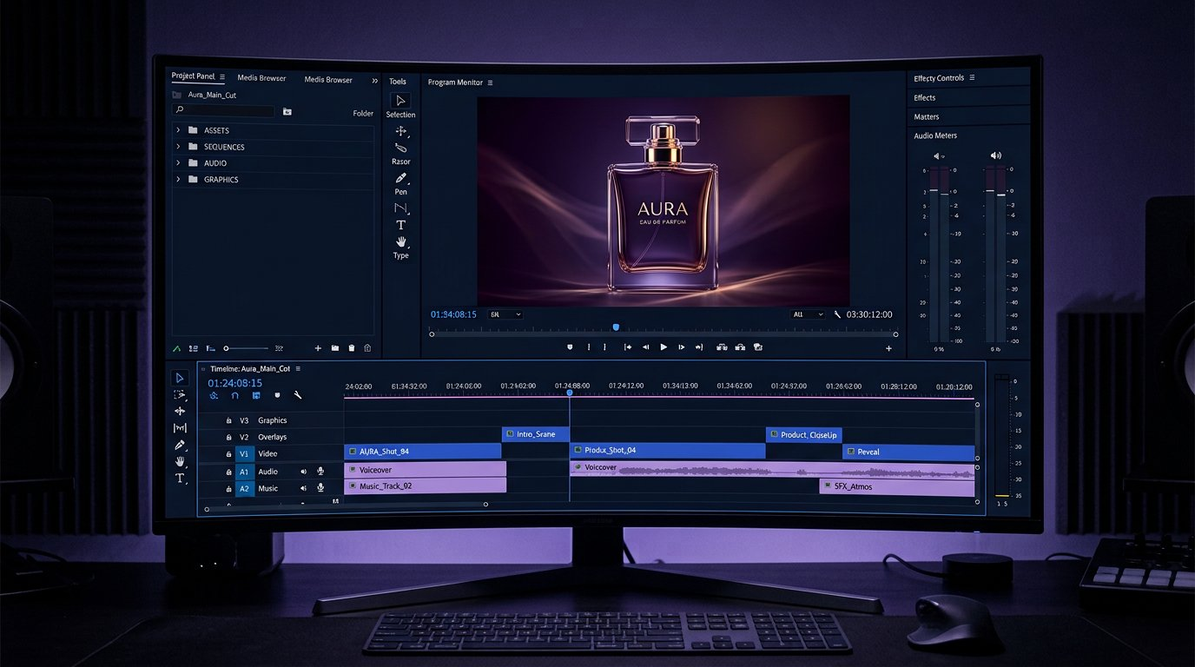
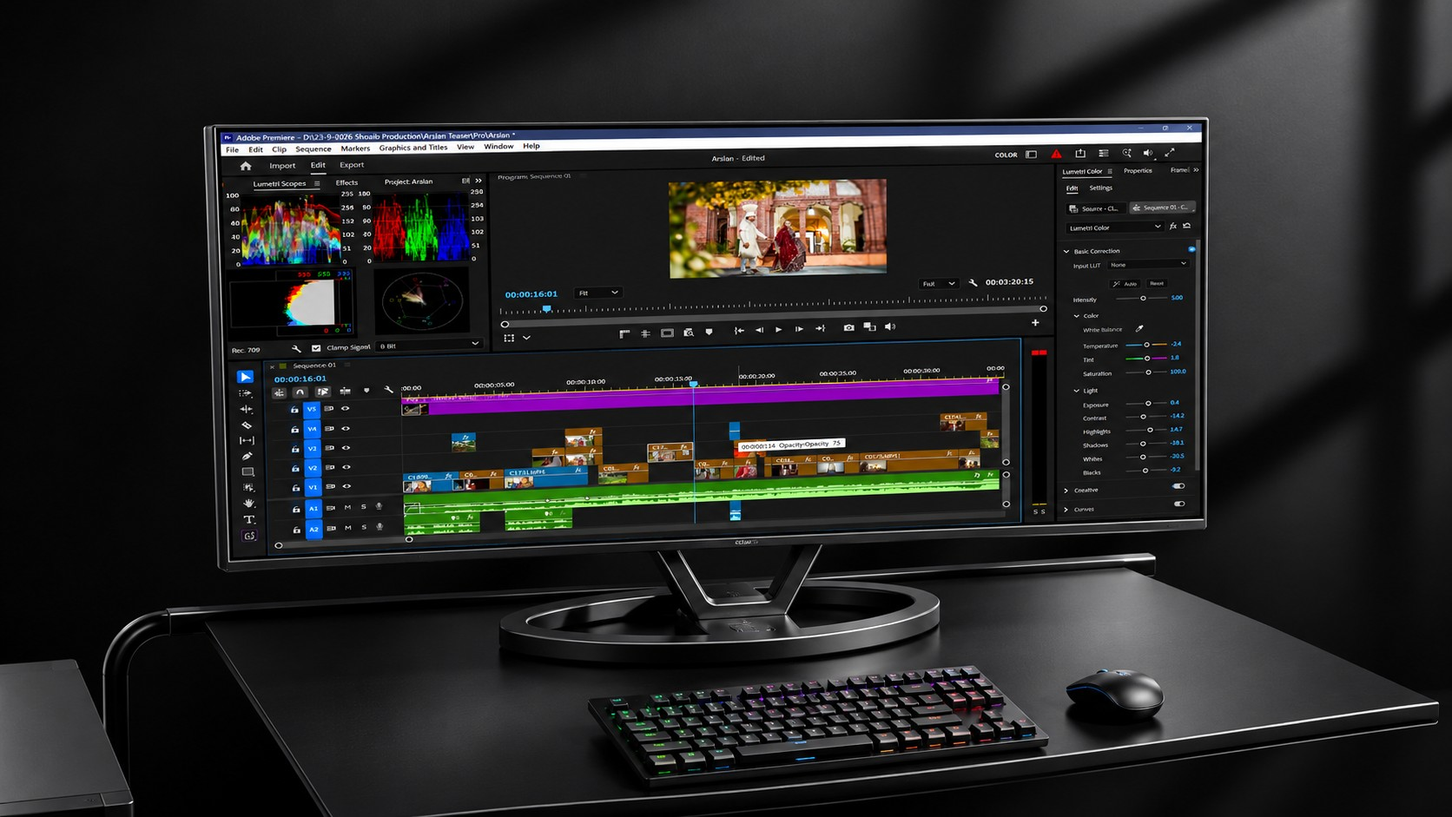
Use new Premiere Pro editing suite image on the homepage video card and Premiere page

diff --git a/index.html b/index.html
@@ -16,7 +16,7 @@
 <dialog id="profile-dialog" class="profile-dialog" aria-labelledby="profile-title"><div class="profile-inner"><button class="profile-close" type="button" aria-label="Close profile">×</button><img class="profile-photo" src="assets/profile.jpg?v=3" alt="Muhammad Hamza"><div class="profile-content"><div class="eyebrow"><span class="dot"></span> Meet the designer</div><h2 id="profile-title">Muhammad<br>Hamza.</h2><p class="profile-intro">Graphic designer &amp; video editor based in Lahore, Pakistan.</p><div class="profile-panel" id="profile-details-panel"><div class="profile-details"><div><small>EDUCATION</small><strong>ICS completed</strong><span>Continuing studies in software engineering</span></div><div><small>EXPERIENCE</small><strong>5+ years designing</strong><span>Worked with 3+ companies · 120+ projects delivered</span></div><div><small>EXPERTISE</small><strong>Graphic design &amp; video editing</strong><span>Brand identity, social media, typography &amp; visual storytelling</span></div><div><small>PHONE</small><strong><a href="tel:+923038718500">+92 303 8718500 ↗</a></strong><span>Lahore, Pakistan</span></div></div></div><div class="profile-panel" id="profile-story-panel" hidden><p class="story-lead">Turning ideas into impact.</p><p class="profile-intro">I'm Muhammad Hamza, a passionate graphic designer who loves turning ideas into stunning visuals. With a keen eye for detail and a love for creativity, I design brands, build identities, and create work that inspires — visuals that hold up long after the trend has moved on.</p><div class="profile-details"><div><small>CREATIVE MIND</small><span>Fresh ideas, bold concepts.</span></div><div><small>DETAIL FOCUS</small><span>Pixel-perfect by instinct.</span></div><div><small>CLIENT FIRST</small><span>Your vision, my priority.</span></div></div></div><div class="profile-pages"><button type="button" class="profile-tab active" data-panel="0" aria-pressed="true">01 &nbsp; Profile</button><button type="button" class="profile-tab" data-panel="1" aria-pressed="false">02 &nbsp; About me →</button><span>Swipe to explore</span></div></div></div></dialog><main id="top"><section class="hero wrap"><div class="hero-grid"><div class="hero-main"><div class="eyebrow"><span class="dot"></span> Creative graphic designer · Lahore, Pakistan</div><h1>Thoughtful design.<br><span>Made to stand out.</span></h1><p class="hero-copy">I'm Muhammad Hamza. I turn ideas into distinctive visual identities, packaging, and digital campaigns that leave a lasting impression.</p><div class="actions"><a href="#work" class="button">Explore my work <span>↗</span></a><a href="#about" class="text-link">About me ↓</a></div></div><aside class="hero-portrait-card" aria-label="Muhammad Hamza profile"><div class="hero-portrait-frame"><img src="assets/profile.jpg?v=3" alt="Muhammad Hamza — Graphic Designer &amp; Video Editor" loading="eager"></div><div class="hero-portrait-meta"><div class="hero-portrait-top"><h2>Muhammad Hamza</h2><span class="hero-badge"><span class="dot"></span> Available</span></div><p class="hero-portrait-role">Graphic Designer &amp; Video Editor · Lahore, Pakistan</p><div class="hero-portrait-tags"><span>Brand Identity</span><span>Social Media</span><span>Packaging</span><span>Video Editing</span></div></div></aside></div><div class="hero-meta"><div class="stats"><div class="stat"><strong>5+</strong><span>Years of experience</span></div><div class="stat"><strong>120+</strong><span>Projects delivered</span></div><div class="stat"><strong>2020</strong><span>Studio established</span></div></div><a class="scroll" href="#about">Meet the designer</a></div></section>
 <section class="section line wrap" id="approach"><div class="section-head"><div><div class="eyebrow"><span class="dot"></span> The approach</div><h2>Ideas with<br>impact.</h2></div><p>Good design does more than look good. It gives an idea a voice, a feeling, and a reason to be remembered.</p></div><div class="feature"><div class="feature-text"><div class="feature-label">Creative direction &nbsp; / &nbsp; Visual thinking</div><h3>Make<br>it <span>matter.</span></h3><div class="feature-bottom">A visual exploration of the thinking behind the work. Built for clarity, character and connection.</div></div><div class="feature-art" aria-hidden="true"><div class="orbit"></div><div class="orbit two"></div><div class="orb"></div></div></div><div class="feature-caption"><strong>Design with intention.</strong></div></section>
 <section class="statement about-section" id="about"><div class="wrap"><div class="about-grid"><div class="about-media"><div class="about-photo-card"><img src="assets/profile.jpg?v=3" alt="Muhammad Hamza — Graphic Designer based in Lahore, Pakistan" loading="lazy"><div class="about-photo-caption"><div><strong>Muhammad Hamza</strong><span>Graphic Designer &amp; Video Editor · Lahore, PK</span></div><a href="#contact">Hire me ↗</a></div></div><div class="about-pillars"><div><small>CREATIVE MIND</small><span>Fresh ideas, bold concepts.</span></div><div><small>DETAIL FOCUS</small><span>Pixel-perfect by instinct.</span></div><div><small>CLIENT FIRST</small><span>Your vision, my priority.</span></div></div></div><div class="about-body"><div class="eyebrow"><span class="dot"></span> A little about me</div><h2>Design should feel as good as it looks. <span>And work just as hard.</span></h2><p class="about-lead">Turning ideas into impact.</p><p class="about-bio">I'm Muhammad Hamza, a passionate graphic designer and video editor based in Lahore, Pakistan with over five years of experience. With a keen eye for detail and a love for creativity, I design brands, build visual identities, and craft campaigns that inspire — visuals that hold up long after trends fade.</p><div class="about-info-grid"><div class="about-info-card"><small>EDUCATION</small><strong>ICS completed</strong><span>Continuing studies in software engineering</span></div><div class="about-info-card"><small>EXPERIENCE</small><strong>5+ years designing</strong><span>Worked with 3+ companies · 120+ projects delivered</span></div><div class="about-info-card"><small>EXPERTISE</small><strong>Graphic design &amp; video editing</strong><span>Brand identity, social media, typography &amp; visual storytelling</span></div><div class="about-info-card"><small>PHONE &amp; LOCATION</small><strong><a href="tel:+923038718500">+92 303 8718500 ↗</a></strong><span>Lahore, Pakistan</span></div></div><div class="about-actions"><a class="about-btn" href="#contact">Let's create something <span>↗</span></a><a class="text-link" href="#work">Explore my work ↓</a></div></div></div></div></section>
-<section class="section line wrap" id="work"><div class="section-head"><div><div class="eyebrow"><span class="dot"></span> Selected work</div><h2>Visuals that<br>stay with you.</h2></div><p>A selection of brand identities and campaign designs. Explore each project to see the full collection.</p></div><div class="projects"><article class="project"><a class="project-link" href="projects/mark-x-media.html" aria-label="View Mark X Media project"><div class="work-image"><img src="assets/mark-x-media-1.jpg" alt="Mark X Media design" loading="lazy"><span class="work-view">View project ↗</span></div><div class="project-meta"><div><h3>Mark X Media</h3><span>Social media advertising</span></div><span>↗</span></div></a></article><article class="project"><a class="project-link" href="projects/precise-fumes.html" aria-label="View Precise Fumes project"><div class="work-image"><img src="assets/precise-fumes-3.jpg" alt="Precise Fumes design" loading="lazy"><span class="work-view">View project ↗</span></div><div class="project-meta"><div><h3>Precise Fumes</h3><span>Product advertising</span></div><span>↗</span></div></a></article><article class="project"><a class="project-link" href="projects/pc-ricondizionati.html" aria-label="View PC Ricondizionati project"><div class="work-image"><img src="assets/pc-ricondizionati-1.jpg" alt="PC Ricondizionati design" loading="lazy"><span class="work-view">View project ↗</span></div><div class="project-meta"><div><h3>PC Ricondizionati</h3><span>Social media campaign</span></div><span>↗</span></div></a></article><article class="project"><a class="project-link" href="projects/rise-zones-estimation.html" aria-label="View Rise Zones Estimation project"><div class="work-image"><img src="assets/rise-zones-estimation-1.jpg" alt="Rise Zones Estimation design" loading="lazy"><span class="work-view">View project ↗</span></div><div class="project-meta"><div><h3>Rise Zones Estimation</h3><span>Social media advertising</span></div><span>↗</span></div></a></article><article class="project"><a class="project-link" href="projects/innovative-logo.html" aria-label="View Innovative Logo project"><div class="work-image innovative-cover"><img src="assets/innovative-logo-11.jpg" alt="Innovative Logo social media advertising design" loading="lazy"><span class="work-view">View project ↗</span></div><div class="project-meta"><div><h3>Innovative Logo</h3><span>Social media advertising</span></div><span>↗</span></div></a></article><article class="project"><a class="project-link" href="projects/stone-bond.html" aria-label="View Stone Bird project"><div class="work-image"><img src="assets/stone-bond-1.jpg" alt="Stone Bird design" loading="lazy"><span class="work-view">View project ↗</span></div><div class="project-meta"><div><h3>Stone Bird</h3><span>Product advertising</span></div><span>↗</span></div></a></article><article class="project"><a class="project-link" href="projects/hello-tree.html" aria-label="View Hello Tree project"><div class="work-image"><img src="assets/hello-tree-1.jpg" alt="Hello Tree social media creative guidelines" loading="lazy"><span class="work-view">View project ↗</span></div><div class="project-meta"><div><h3>Hello Tree</h3><span>Social media creative guidelines</span></div><span>↗</span></div></a></article><article class="project"><a class="project-link" href="projects/appngo.html" aria-label="View AppnGo project"><div class="work-image"><img src="assets/appngo-1.jpg" alt="AppnGo social media campaign designs" loading="lazy"><span class="work-view">View project ↗</span></div><div class="project-meta"><div><h3>AppnGo</h3><span>Social media campaign</span></div><span>↗</span></div></a></article><article class="project"><a class="project-link" href="projects/aura-electronics.html" aria-label="View Aura Electronics project"><div class="work-image"><img src="assets/aura-electronics-1.jpg" alt="Aura Electronics brand guidelines" loading="lazy"><span class="work-view">View project ↗</span></div><div class="project-meta"><div><h3>Aura Electronics</h3><span>Brand guidelines</span></div><span>↗</span></div></a></article><article class="project"><a class="project-link" href="projects/vera.html" aria-label="View Vera project"><div class="work-image"><img src="assets/vera-1.jpg" alt="Vera wellness social media campaign designs" loading="lazy"><span class="work-view">View project ↗</span></div><div class="project-meta"><div><h3>Vera</h3><span>Wellness campaign</span></div><span>↗</span></div></a></article><article class="project"><a class="project-link" href="projects/naureen-nawaz.html" aria-label="View Naureen Nawaz project"><div class="work-image"><img src="assets/naureen-nawaz-1.jpg" alt="Naureen Nawaz salon campaign designs" loading="lazy"><span class="work-view">View project ↗</span></div><div class="project-meta"><div><h3>Naureen Nawaz</h3><span>Salon campaign</span></div><span>↗</span></div></a></article><article class="project"><a class="project-link" href="projects/collection-by-fatima.html" aria-label="View Collection By Fatima project"><div class="work-image"><img src="assets/collection-by-fatima-1.jpg" alt="Collection By Fatima fashion social media designs" loading="lazy"><span class="work-view">View project ↗</span></div><div class="project-meta"><div><h3>Collection By Fatima</h3><span>Fashion social media design</span></div><span>↗</span></div></a></article><article class="project"><a class="project-link" href="projects/synergy-clinics.html" aria-label="View Synergy Clinics project"><div class="work-image"><img src="assets/synergy-clinics-1.jpg" alt="Synergy Clinics dental and aesthetics campaign designs" loading="lazy"><span class="work-view">View project ↗</span></div><div class="project-meta"><div><h3>Synergy Clinics</h3><span>Dental and aesthetics campaign</span></div><span>↗</span></div></a></article><article class="project"><a class="project-link" href="projects/shajarpk.html" aria-label="View Shajarpk project"><div class="work-image"><img src="assets/shajarpk-1.jpg" alt="Shajarpk fashion social media designs" loading="lazy"><span class="work-view">View project ↗</span></div><div class="project-meta"><div><h3>Shajarpk</h3><span>Fashion social media design</span></div><span>↗</span></div></a></article><article class="project"><a class="project-link" href="projects/transform-body.html" aria-label="View Fitness Zone project"><div class="work-image"><img src="assets/transform-body-1.jpg" alt="Fitness Zone design" loading="lazy"><span class="work-view">View project ↗</span></div><div class="project-meta"><div><h3>Fitness Zone</h3><span>Fitness advertisement</span></div><span>↗</span></div></a></article></div><div class="special-projects"><section class="project-category" id="premiere-projects"><div class="eyebrow"><span class="dot"></span> Video editing</div><h3>Premiere Pro<br>projects.</h3><p>Commercial reels, product video edits, color grading, and motion storytelling.</p><div class="category-sample"><img src="assets/premiere-pro-sample.jpg" alt="Premiere Pro video editing sample — commercial product reel timeline and color grading" loading="lazy"><span class="category-sample-badge">Sample Preview · 4K Edit</span><span class="work-view">View project ↗</span></div><a class="category-link" href="projects/premiere-pro.html">View Premiere Pro samples ↗</a></section><section class="project-category" id="brand-identity-projects"><div class="eyebrow"><span class="dot"></span> Brand design</div><h3>Brand<br>identity.</h3><p>Thoughtful visual identities, brand guidelines, typography, and color systems.</p><div class="category-sample"><img src="assets/mark-x-brand-identity.svg" alt="Mark X Media brand identity preview" loading="lazy"><span class="category-sample-badge">Mark X Media · Identity</span><span class="work-view">View project ↗</span></div><a class="category-link" href="projects/brand-identity.html">View brand identity ↗</a></section><section class="project-category" id="mockup-projects"><div class="eyebrow"><span class="dot"></span> Design presentation</div><h3>Packaging<br>&amp; branding.</h3><p>Product packaging, label systems, and 3D brand mockups.</p><div class="category-sample"><img src="assets/stone-bird-packaging.jpg" alt="Fome product packaging &amp; branding sample — Tile &amp; Grout Cleaner, Marble Polish, Metal Cleaner &amp; Shiner" loading="lazy"><span class="category-sample-badge">18 Designs · Showcase</span><span class="work-view">View project ↗</span></div><a class="category-link" href="projects/packaging-branding.html">View packaging work ↗</a></section></div></section><section class="section line wrap" id="services"><div class="section-head"><div><div class="eyebrow"><span class="dot"></span> What I do</div><h2>Creative, from<br>every angle.</h2></div><p>From the first idea to the final detail, bringing a clear and consistent visual language to every touchpoint.</p></div><div class="services"><article class="service"><small>01 /</small><div><h3>Brand identity</h3><p>Distinctive visual systems that give an idea its own recognizable personality.</p></div><span class="arrow">↗</span></article><article class="service"><small>02 /</small><div><h3>Logo design</h3><p>Simple, considered marks designed to make a memorable first impression.</p></div><span class="arrow">↗</span></article><article class="service"><small>03 /</small><div><h3>Social media design</h3><p>Visual content that brings consistency and character to your digital presence.</p></div><span class="arrow">↗</span></article><article class="service"><small>04 /</small><div><h3>Visual storytelling</h3><p>Thoughtful typography, layouts and imagery that bring a message to life.</p></div><span class="arrow">↗</span></article></div></section>
+<section class="section line wrap" id="work"><div class="section-head"><div><div class="eyebrow"><span class="dot"></span> Selected work</div><h2>Visuals that<br>stay with you.</h2></div><p>A selection of brand identities and campaign designs. Explore each project to see the full collection.</p></div><div class="projects"><article class="project"><a class="project-link" href="projects/mark-x-media.html" aria-label="View Mark X Media project"><div class="work-image"><img src="assets/mark-x-media-1.jpg" alt="Mark X Media design" loading="lazy"><span class="work-view">View project ↗</span></div><div class="project-meta"><div><h3>Mark X Media</h3><span>Social media advertising</span></div><span>↗</span></div></a></article><article class="project"><a class="project-link" href="projects/precise-fumes.html" aria-label="View Precise Fumes project"><div class="work-image"><img src="assets/precise-fumes-3.jpg" alt="Precise Fumes design" loading="lazy"><span class="work-view">View project ↗</span></div><div class="project-meta"><div><h3>Precise Fumes</h3><span>Product advertising</span></div><span>↗</span></div></a></article><article class="project"><a class="project-link" href="projects/pc-ricondizionati.html" aria-label="View PC Ricondizionati project"><div class="work-image"><img src="assets/pc-ricondizionati-1.jpg" alt="PC Ricondizionati design" loading="lazy"><span class="work-view">View project ↗</span></div><div class="project-meta"><div><h3>PC Ricondizionati</h3><span>Social media campaign</span></div><span>↗</span></div></a></article><article class="project"><a class="project-link" href="projects/rise-zones-estimation.html" aria-label="View Rise Zones Estimation project"><div class="work-image"><img src="assets/rise-zones-estimation-1.jpg" alt="Rise Zones Estimation design" loading="lazy"><span class="work-view">View project ↗</span></div><div class="project-meta"><div><h3>Rise Zones Estimation</h3><span>Social media advertising</span></div><span>↗</span></div></a></article><article class="project"><a class="project-link" href="projects/innovative-logo.html" aria-label="View Innovative Logo project"><div class="work-image innovative-cover"><img src="assets/innovative-logo-11.jpg" alt="Innovative Logo social media advertising design" loading="lazy"><span class="work-view">View project ↗</span></div><div class="project-meta"><div><h3>Innovative Logo</h3><span>Social media advertising</span></div><span>↗</span></div></a></article><article class="project"><a class="project-link" href="projects/stone-bond.html" aria-label="View Stone Bird project"><div class="work-image"><img src="assets/stone-bond-1.jpg" alt="Stone Bird design" loading="lazy"><span class="work-view">View project ↗</span></div><div class="project-meta"><div><h3>Stone Bird</h3><span>Product advertising</span></div><span>↗</span></div></a></article><article class="project"><a class="project-link" href="projects/hello-tree.html" aria-label="View Hello Tree project"><div class="work-image"><img src="assets/hello-tree-1.jpg" alt="Hello Tree social media creative guidelines" loading="lazy"><span class="work-view">View project ↗</span></div><div class="project-meta"><div><h3>Hello Tree</h3><span>Social media creative guidelines</span></div><span>↗</span></div></a></article><article class="project"><a class="project-link" href="projects/appngo.html" aria-label="View AppnGo project"><div class="work-image"><img src="assets/appngo-1.jpg" alt="AppnGo social media campaign designs" loading="lazy"><span class="work-view">View project ↗</span></div><div class="project-meta"><div><h3>AppnGo</h3><span>Social media campaign</span></div><span>↗</span></div></a></article><article class="project"><a class="project-link" href="projects/aura-electronics.html" aria-label="View Aura Electronics project"><div class="work-image"><img src="assets/aura-electronics-1.jpg" alt="Aura Electronics brand guidelines" loading="lazy"><span class="work-view">View project ↗</span></div><div class="project-meta"><div><h3>Aura Electronics</h3><span>Brand guidelines</span></div><span>↗</span></div></a></article><article class="project"><a class="project-link" href="projects/vera.html" aria-label="View Vera project"><div class="work-image"><img src="assets/vera-1.jpg" alt="Vera wellness social media campaign designs" loading="lazy"><span class="work-view">View project ↗</span></div><div class="project-meta"><div><h3>Vera</h3><span>Wellness campaign</span></div><span>↗</span></div></a></article><article class="project"><a class="project-link" href="projects/naureen-nawaz.html" aria-label="View Naureen Nawaz project"><div class="work-image"><img src="assets/naureen-nawaz-1.jpg" alt="Naureen Nawaz salon campaign designs" loading="lazy"><span class="work-view">View project ↗</span></div><div class="project-meta"><div><h3>Naureen Nawaz</h3><span>Salon campaign</span></div><span>↗</span></div></a></article><article class="project"><a class="project-link" href="projects/collection-by-fatima.html" aria-label="View Collection By Fatima project"><div class="work-image"><img src="assets/collection-by-fatima-1.jpg" alt="Collection By Fatima fashion social media designs" loading="lazy"><span class="work-view">View project ↗</span></div><div class="project-meta"><div><h3>Collection By Fatima</h3><span>Fashion social media design</span></div><span>↗</span></div></a></article><article class="project"><a class="project-link" href="projects/synergy-clinics.html" aria-label="View Synergy Clinics project"><div class="work-image"><img src="assets/synergy-clinics-1.jpg" alt="Synergy Clinics dental and aesthetics campaign designs" loading="lazy"><span class="work-view">View project ↗</span></div><div class="project-meta"><div><h3>Synergy Clinics</h3><span>Dental and aesthetics campaign</span></div><span>↗</span></div></a></article><article class="project"><a class="project-link" href="projects/shajarpk.html" aria-label="View Shajarpk project"><div class="work-image"><img src="assets/shajarpk-1.jpg" alt="Shajarpk fashion social media designs" loading="lazy"><span class="work-view">View project ↗</span></div><div class="project-meta"><div><h3>Shajarpk</h3><span>Fashion social media design</span></div><span>↗</span></div></a></article><article class="project"><a class="project-link" href="projects/transform-body.html" aria-label="View Fitness Zone project"><div class="work-image"><img src="assets/transform-body-1.jpg" alt="Fitness Zone design" loading="lazy"><span class="work-view">View project ↗</span></div><div class="project-meta"><div><h3>Fitness Zone</h3><span>Fitness advertisement</span></div><span>↗</span></div></a></article></div><div class="special-projects"><section class="project-category" id="premiere-projects"><div class="eyebrow"><span class="dot"></span> Video editing</div><h3>Premiere Pro<br>projects.</h3><p>Commercial reels, product video edits, color grading, and motion storytelling.</p><div class="category-sample"><img src="assets/premiere-pro-sample.jpg?v=2" alt="Adobe Premiere Pro editing suite on a wide monitor showing the Arslan commercial project timeline, Lumetri color scopes and color grading controls" loading="lazy"><span class="category-sample-badge">Sample Preview · 4K Edit</span><span class="work-view">View project ↗</span></div><a class="category-link" href="projects/premiere-pro.html">View Premiere Pro samples ↗</a></section><section class="project-category" id="brand-identity-projects"><div class="eyebrow"><span class="dot"></span> Brand design</div><h3>Brand<br>identity.</h3><p>Thoughtful visual identities, brand guidelines, typography, and color systems.</p><div class="category-sample"><img src="assets/mark-x-brand-identity.svg" alt="Mark X Media brand identity preview" loading="lazy"><span class="category-sample-badge">Mark X Media · Identity</span><span class="work-view">View project ↗</span></div><a class="category-link" href="projects/brand-identity.html">View brand identity ↗</a></section><section class="project-category" id="mockup-projects"><div class="eyebrow"><span class="dot"></span> Design presentation</div><h3>Packaging<br>&amp; branding.</h3><p>Product packaging, label systems, and 3D brand mockups.</p><div class="category-sample"><img src="assets/stone-bird-packaging.jpg" alt="Fome product packaging &amp; branding sample — Tile &amp; Grout Cleaner, Marble Polish, Metal Cleaner &amp; Shiner" loading="lazy"><span class="category-sample-badge">18 Designs · Showcase</span><span class="work-view">View project ↗</span></div><a class="category-link" href="projects/packaging-branding.html">View packaging work ↗</a></section></div></section><section class="section line wrap" id="services"><div class="section-head"><div><div class="eyebrow"><span class="dot"></span> What I do</div><h2>Creative, from<br>every angle.</h2></div><p>From the first idea to the final detail, bringing a clear and consistent visual language to every touchpoint.</p></div><div class="services"><article class="service"><small>01 /</small><div><h3>Brand identity</h3><p>Distinctive visual systems that give an idea its own recognizable personality.</p></div><span class="arrow">↗</span></article><article class="service"><small>02 /</small><div><h3>Logo design</h3><p>Simple, considered marks designed to make a memorable first impression.</p></div><span class="arrow">↗</span></article><article class="service"><small>03 /</small><div><h3>Social media design</h3><p>Visual content that brings consistency and character to your digital presence.</p></div><span class="arrow">↗</span></article><article class="service"><small>04 /</small><div><h3>Visual storytelling</h3><p>Thoughtful typography, layouts and imagery that bring a message to life.</p></div><span class="arrow">↗</span></article></div></section>
 <section class="section line wrap" id="toolkit"><div class="section-head"><div><div class="eyebrow"><span class="dot"></span> The toolkit</div><h2>Tools &amp;<br>expertise.</h2></div><p>From the first sketch to the final export, a toolkit for visual storytelling.</p></div><div class="tool-grid"><div><b class="app-icon ps" aria-label="Photoshop icon">Ps</b><h3>Photoshop</h3><p>Retouch &amp; composite</p></div><div><b class="app-icon canva" aria-label="Canva icon">Canva</b><h3>Canva</h3><p>Fast social systems</p></div><div><b class="app-icon figma" aria-label="Figma icon"><svg viewBox="0 0 38 57" width="24" height="36" aria-hidden="true"><path fill="#f24e1e" d="M19 0H9.5a9.5 9.5 0 0 0 0 19H19z"/><path fill="#ff7262" d="M19 0h9.5a9.5 9.5 0 0 1 0 19H19z"/><path fill="#a259ff" d="M19 19H9.5a9.5 9.5 0 0 0 0 19H19z"/><circle fill="#1abcfe" cx="28.5" cy="28.5" r="9.5"/><path fill="#0acf83" d="M19 38H9.5a9.5 9.5 0 1 0 9.5 9.5z"/></svg></b><h3>Figma</h3><p>Layouts &amp; systems</p></div><div><b class="app-icon premiere" aria-label="Premiere Pro icon">Pr</b><h3>Premiere Pro</h3><p>Motion &amp; edits</p></div></div><div class="skill-columns"><div><small>CORE SKILLS</small><p>Branding &amp; Identity · Social Media Design · Logo Design · Typography</p></div><div><small>PROFESSIONAL SKILLS</small><p>Creativity · Attention to Detail · Time Management · Communication</p></div></div></section>
 <section class="quote-section wrap" id="testimonials"><div class="eyebrow"><span class="dot"></span> Kind words · Client reviews</div><blockquote>“Muhammad’s creativity and attention to detail are outstanding. He delivered beyond our expectations.”</blockquote><p>Sarah Khan &nbsp; / &nbsp; CEO, Motif Labs</p><div class="t-board" aria-label="Client testimonials by service"><div class="t-bar"><div class="t-rating-summary"><div class="t-summary-stars" id="t-summary-stars" aria-hidden="true"></div><p class="t-avg-text"><strong id="t-avg-score">4.9</strong> / 5 average from <span id="t-total-ratings">39</span> ratings</p></div><div class="t-filter-area"><div class="t-filter-group"><label class="t-filter-label" for="testimonial-filter">Project type</label><div class="t-select-wrap"><select class="t-select" id="testimonial-filter" aria-label="Filter testimonials by project type"><option value="all">All project types (39)</option><option value="Graphic Design">Graphic Design (7)</option><option value="Logo Design &amp; Branding">Logo Design &amp; Branding (7)</option><option value="Social Media &amp; Advertising Design">Social Media &amp; Advertising Design (7)</option><option value="Packaging &amp; Print Design">Packaging &amp; Print Design (6)</option><option value="Video Editing &amp; Animation">Video Editing &amp; Animation (5)</option><option value="Overall Client Experience">Overall Client Experience (7)</option></select><svg class="t-chevron" viewBox="0 0 24 24" fill="none" stroke="currentColor" stroke-width="2.2" aria-hidden="true"><path d="M6 9l6 6 6-6"/></svg></div></div><span class="t-count" id="t-count" aria-live="polite">39 reviews</span></div></div><div class="t-grid" id="t-grid"></div><div class="t-controls" id="t-controls"></div></div></section><section class="contact wrap" id="contact"><div class="eyebrow"><span class="dot"></span> Have an idea?</div><h2>Let's make<br><span>something great.</span></h2><p>Good work starts with a good conversation. Let's bring your next idea to life.</p><div class="contact-cta-row"><a class="button" href="tel:+923038718500">Call +92 303 8718500 <span>↗</span></a><a class="wa-cta-btn" href="https://wa.me/923038718500/" target="_blank" rel="noopener noreferrer" aria-label="Chat with Muhammad Hamza on WhatsApp"><svg viewBox="0 0 24 24" fill="currentColor" aria-hidden="true"><path d="M20.52 3.48A11.82 11.82 0 0 0 12.05 0C5.5 0 .16 5.33.16 11.88c0 2.09.55 4.14 1.59 5.94L0 24l6.35-1.66a11.85 11.85 0 0 0 5.7 1.45h.01c6.55 0 11.89-5.33 11.89-11.88 0-3.17-1.24-6.16-3.43-8.43zM12.06 21.79h-.01a9.87 9.87 0 0 1-5.04-1.38l-.36-.21-3.77.99 1.01-3.68-.24-.38a9.84 9.84 0 0 1-1.51-5.25c0-5.44 4.43-9.87 9.9-9.87 2.64 0 5.13 1.03 7 2.9a9.8 9.8 0 0 1 2.9 6.98c0 5.45-4.44 9.9-9.88 9.9zm5.42-7.41c-.3-.15-1.76-.87-2.03-.97-.27-.1-.47-.15-.67.15-.2.3-.77.97-.94 1.17-.17.2-.35.22-.65.07-.3-.15-1.26-.46-2.4-1.48-.89-.79-1.49-1.77-1.66-2.07-.17-.3-.02-.46.13-.61.13-.13.3-.35.45-.52.15-.17.2-.3.3-.5.1-.2.05-.37-.02-.52-.08-.15-.67-1.62-.92-2.22-.24-.58-.49-.5-.67-.51h-.57c-.2 0-.52.08-.8.37-.27.3-1.04 1.02-1.04 2.49s1.07 2.89 1.22 3.09c.15.2 2.1 3.21 5.09 4.5.71.31 1.27.49 1.7.63.71.23 1.36.2 1.87.12.57-.09 1.76-.72 2.01-1.41.25-.7.25-1.29.17-1.41-.07-.13-.27-.2-.57-.35z"/></svg><span>Chat on WhatsApp</span><span class="wa-cta-arrow" aria-hidden="true">↗</span></a></div><div class="email-contact"><span>EMAIL</span><a href="mailto:hamzamoazzam554@gmail.com?subject=Project%20enquiry">hamzamoazzam554@gmail.com ↗</a></div><p class="contact-location">Based in Lahore, Pakistan</p><div class="social-icons" aria-label="Social media profiles"><a class="social-icon" href="https://www.instagram.com/designs_.byhamza/" target="_blank" rel="noopener noreferrer" title="Visit Instagram profile" aria-label="Visit Muhammad Hamza on Instagram"><svg viewBox="0 0 24 24" fill="none" stroke="currentColor" stroke-width="1.8" aria-hidden="true"><rect x="3" y="3" width="18" height="18" rx="5"/><circle cx="12" cy="12" r="4"/><circle cx="17.4" cy="6.8" r=".8" fill="currentColor" stroke="none"/></svg></a><a class="social-icon" href="https://www.linkedin.com/in/muhammad-hamza-954402450" target="_blank" rel="noopener noreferrer" title="Visit LinkedIn profile" aria-label="Visit Muhammad Hamza on LinkedIn"><svg viewBox="0 0 24 24" fill="currentColor" aria-hidden="true"><path d="M5.2 8.2H2.1V22h3.1zM3.6 2a1.9 1.9 0 1 0 0 3.8 1.9 1.9 0 0 0 0-3.8zM22 14c0-4.2-2.3-6.1-5.4-6.1a4.6 4.6 0 0 0-4.2 2.3v-2H9.3V22h3.1v-6.8c0-1.8.4-3.5 2.6-3.5 2.2 0 2.2 2 2.2 3.6V22H22z"/></svg></a><a class="social-icon" href="https://www.facebook.com/profile.php?id=61596337575553" target="_blank" rel="noopener noreferrer" title="Visit Facebook profile" aria-label="Visit Muhammad Hamza on Facebook"><svg viewBox="0 0 24 24" fill="currentColor" aria-hidden="true"><path d="M13.7 22v-9h3l.5-3.5h-3.5V7.3c0-1 .3-1.8 1.8-1.8h1.9V2.4c-.3 0-1.5-.2-2.8-.2-2.8 0-4.7 1.7-4.7 4.8v2.5H6.8V13h3.1v9z"/></svg></a><a class="social-icon" href="https://pin.it/5GP3JjBlo" target="_blank" rel="noopener noreferrer" title="Visit Pinterest profile" aria-label="Visit Muhammad Hamza on Pinterest"><svg viewBox="0 0 24 24" fill="currentColor" aria-hidden="true"><path d="M12 2a10 10 0 0 0-3.6 19.3c-.1-.8-.1-2 .1-2.9l1.3-5.5s-.3-.6-.3-1.6c0-1.5.9-2.6 2-2.6.9 0 1.4.7 1.4 1.6 0 1-.7 2.6-1 4-.3 1.2.6 2.2 1.8 2.2 2.2 0 3.8-2.3 3.8-5.7 0-3-2.1-5.1-5.2-5.1-3.6 0-5.7 2.7-5.7 5.5 0 1.1.4 2.3 1 3 .1.1.1.2.1.4l-.4 1.4c-.1.3-.3.4-.6.3-2.1-1-2.5-3.3-2.5-5.2 0-4.2 3-8 8.7-8 4.6 0 8.1 3.3 8.1 7.7 0 4.5-2.9 8.1-6.8 8.1-1.3 0-2.5-.7-2.9-1.5l-.8 3.1c-.3 1.1-1 2.2-1.5 3A10 10 0 1 0 12 2z"/></svg></a><a class="social-icon" href="https://wa.me/923038718500/" target="_blank" rel="noopener noreferrer" title="Chat on WhatsApp" aria-label="Chat on WhatsApp"><svg viewBox="0 0 24 24" fill="none" stroke="currentColor" stroke-width="1.6" aria-hidden="true"><path d="M20.5 11.7a8.5 8.5 0 0 1-12.7 7.4L3 20.5l1.4-4.6a8.5 8.5 0 1 1 16.1-4.2z"/><path d="M8.2 7.5c-.5.3-.8 1.2-.5 2.1.8 2.5 3.3 5 5.8 5.9 1 .3 1.8.1 2.2-.5l.5-.8-2.3-1.1-.7.8c-1.1-.5-2.2-1.6-2.8-2.8l.8-.7-1.1-2.3z"/></svg></a></div><form class="contact-form" id="contact-form"><h3>Send me a message.</h3><div class="form-row"><label>Your name<input name="name" required autocomplete="name" placeholder="Your name"></label><label>Your email<input name="email" type="email" required autocomplete="email" placeholder="you@example.com"></label></div><label>Project details<textarea name="message" required rows="5" placeholder="Tell me about your project..."></textarea></label><button class="button" type="submit">Open email draft <span>↗</span></button><p class="form-note">This opens your email app with your message ready to send.</p></form></section></main>
 <footer class="wrap footer"><span>© 2026 Muhammad Hamza. All rights reserved.</span><span>Designed by <a href="https://markxmedia.agency/">Mark X Media ↗</a></span><a href="#top">Back to top ↑</a></footer>

diff --git a/projects/premiere-pro.html b/projects/premiere-pro.html
@@ -26,6 +26,8 @@ a{color:inherit;text-decoration:none}
 .featured{margin:0 0 28px;background:#102442;border:1px solid #ffffff20;border-radius:20px;overflow:hidden}
 .featured img{display:block;width:100%;height:auto;transition:transform .45s ease}
 .featured:hover img{transform:scale(1.03)}
+.featured figcaption{display:flex;justify-content:space-between;gap:14px;flex-wrap:wrap;padding:16px 22px;border-top:1px solid #ffffff1a;font-size:11px;letter-spacing:.12em;text-transform:uppercase;color:#9aafcc;font-weight:700}
+.featured figcaption span:last-child{color:#d1a4ff}
 .sample-grid{display:grid;grid-template-columns:repeat(3,1fr);gap:18px;margin-top:24px}
 .sample-card{background:#102442;border:1px solid #ffffff20;border-radius:18px;padding:26px;transition:transform .35s ease,border-color .35s ease,box-shadow .35s ease}
 .sample-card:hover{transform:translateY(-4px);border-color:#a9cbff66;box-shadow:0 16px 36px #00000040}
@@ -76,7 +78,8 @@ footer{border-top:1px solid #ffffff25;color:#9aafcc;font-size:12px;padding:26px 
     </div>
   </section>
   <figure class="featured">
-    <img src="../assets/premiere-pro-sample.jpg" alt="Premiere Pro video editing workspace sample — commercial product reel timeline and color grading" loading="eager">
+    <img src="../assets/premiere-pro-sample.jpg?v=2" alt="Adobe Premiere Pro editing suite on a wide monitor showing the Arslan commercial project timeline, Lumetri color scopes and color grading controls" loading="eager">
+    <figcaption><span>Editing suite · Premiere Pro</span><span>Color grading &amp; timeline · 4K</span></figcaption>
   </figure>
   <div class="sample-grid">
     <article class="sample-card">
